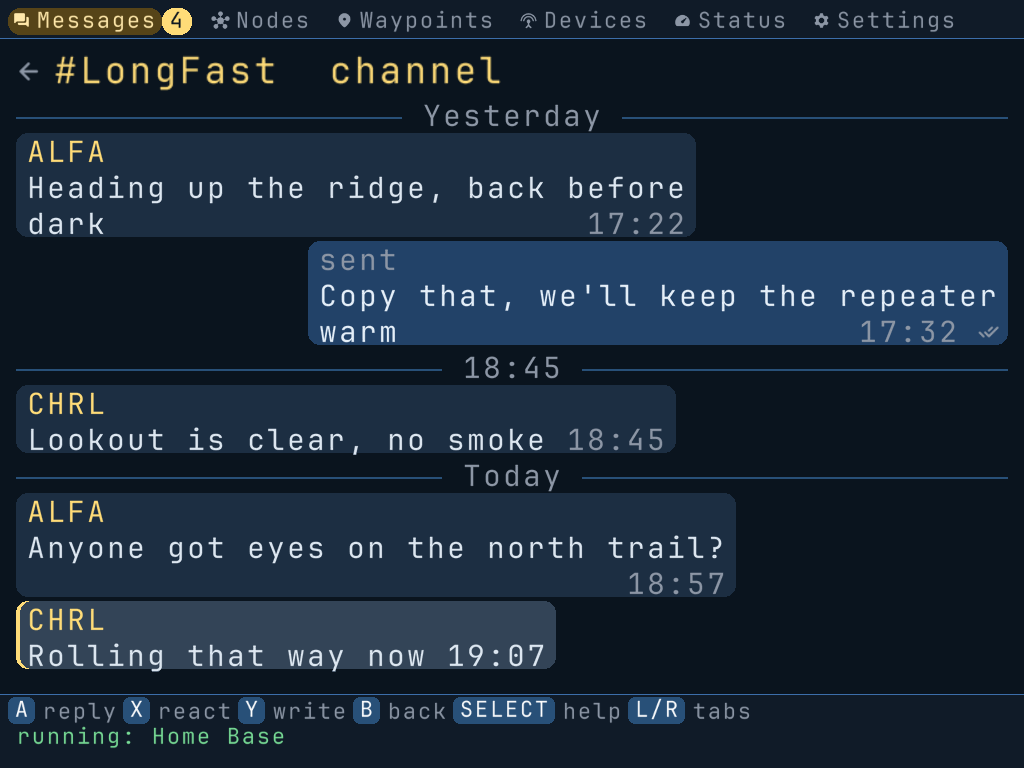
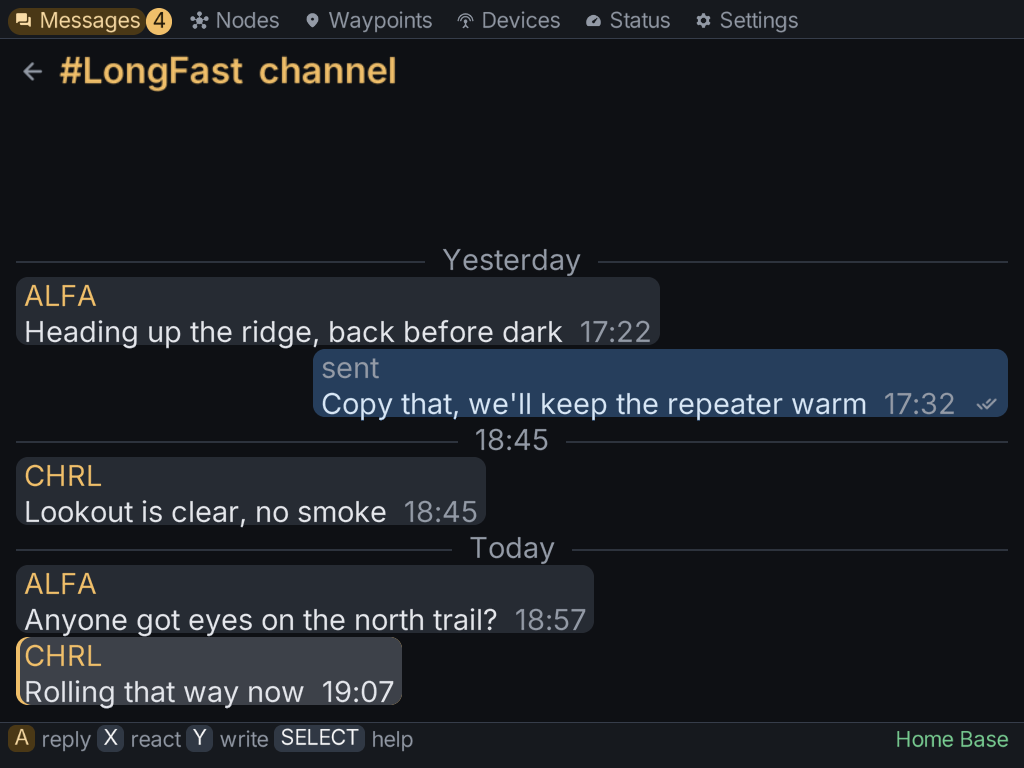
docs(ui): the list roles and the one-row footer; refresh the listing stills
docs/ui.md says where a list's look is decided and what the compact footer keeps and drops.
Two non-bugs entries that named "the line under the keycaps" now name where the link's state
is. The five listing stills are re-rendered from their scenes (make screenshots).

Claude-Session: https://claude.ai/code/session_01GamHjXZmeUnkjviCre8eKB

diff --git a/docs/non-bugs.md b/docs/non-bugs.md
@@ -444,7 +444,7 @@ only a consequence of one of them, and neither is a thing a test could pin.
   content about the client. Which states raise either is `src/ui/tables/chrome.c`, never a renderer.
   `ui_capture_progress_costs_no_row_and_the_banner_costs_rows`.
 - **A banner says only what nothing else on the frame says, and must be able to resolve.** Hence
-  no "radio disconnected" banner - the status line under the keycaps already says it - and no
+  no "radio disconnected" banner - the link's state at the end of the keycap row already says it - and no
   dismissal, because dismissal is a nav change and refusing it is what keeps the table to states
   that go away on their own. `ui_chrome_banner`.
 - **A font's cell height is not its cap height.** Anything sized to stand beside the text uses
@@ -471,10 +471,11 @@ only a consequence of one of them, and neither is a thing a test could pin.
   drawn, and a verb on an undrawn card leaves the action bar naming a press whose button is not
   on the frame. That is why the Radio card says "no report yet" rather than disappearing.
 - **Two rows of the Link card stand down while a radio is attached, and it is not a missing
-  else.** `fb_link_summary()` builds the line under the keycaps on every frame of every screen, so
-  with a link up it reads "running: Home Base" and the card's Transport and Radio rows were the
-  same two expressions a dozen rows further up. With no radio that line says the quit hint
-  instead, so the rows come back. It is the banner's rule on a card row.
+  else.** `fb_link_summary()` builds the link's state at the end of the keycap row on every frame
+  of every screen, so with a link up it names the radio in the success tone and the card's
+  Transport and Radio rows were the same two facts a dozen rows further up. With no radio it says
+  what the transport is doing and the quit hint instead, so the rows come back. It is the
+  banner's rule on a card row.
 
 ## Charts and history
 

diff --git a/docs/ui.md b/docs/ui.md
@@ -514,6 +514,19 @@ Four authoring rules hold across all of them, and breaking one compiles and look
 - **A heading is `struct inkcell_fb_app_bar`**, with slots; the back arrow is *derived* from the action
   table, never declared.
 - **fb layout is measured in cells, not bytes.** A `strlen` or `%-Ns` there is a bug.
+- **A list names its role, never its look.** `fb_list_look()` in `fb_screens_frame.c` is the
+  one answer: a *menu* (places to go, verbs to choose) and a *form* (a section's fields) stand in
+  inset sections with comfortable rows; a *feed* (nodes, conversations, waypoints) stays on the
+  panel, compact on the compact width class and comfortable above it. Every list takes the accent
+  cursor - a lift and a leading capsule, the row's own inks kept - and tiered type, and the
+  frame's travelling ring stays off an accent row, going to dialogs and cards instead. A uniform
+  list opens through `fb_list_begin_steps()`.
+
+The foot of the frame is inkcell's one-row compact action bar: the screen's own verbs, then the
+link's state at the row's end (the radio's name in the success tone, or what the transport is
+doing). `mesh_ui_actions_compact()` drops only what the chrome already says - `L/R tabs` and a `B
+back` the heading's arrow stands for - and no verb, because the help screen explains settings,
+not buttons, so a verb the bar hid would be one nothing on the device names.
 
 The tables a screen reads instead of deciding for itself: `actions.c` (button verbs), `status.c`
 (card verbs), `help.c`, `devices.c`, `nodes.c`, `delivery.c`, `trust.c`, `chrome.c`, `trend.c`,
